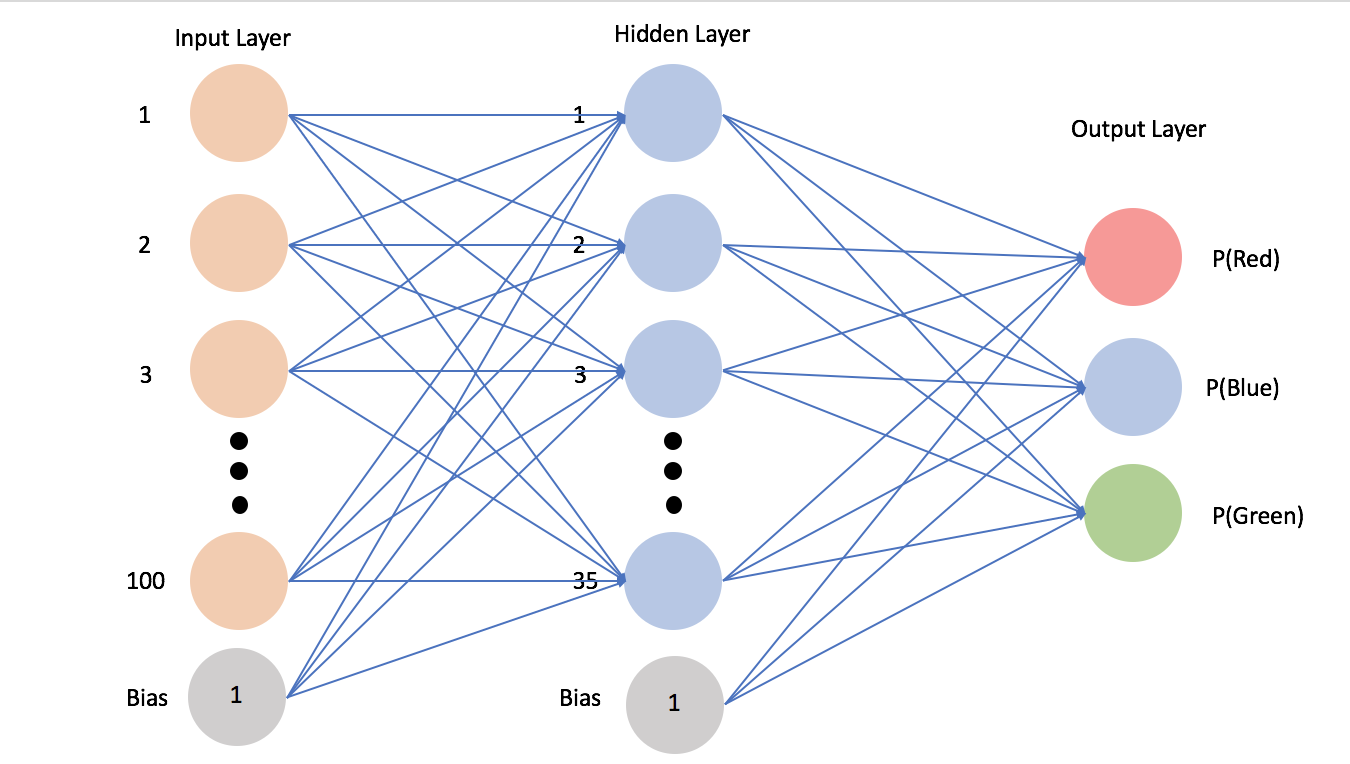
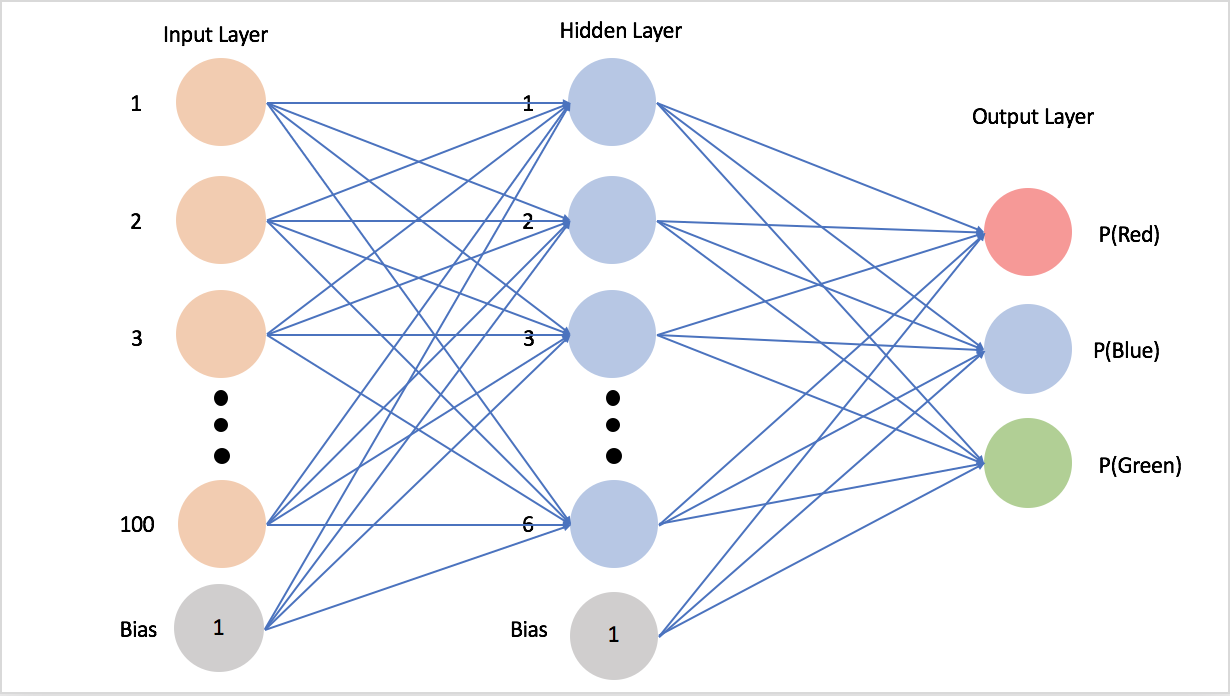
FINAL

diff --git a/Python/demo.py b/Python/demo.py
@@ -73,7 +73,7 @@ while True:
             for value in row:
                 inp.append(value/179) #0-179 is the hue range
         # Feed Forward
-        result = forward(inp, weights, 35, 100, 3)
+        result = forward(inp, weights, 6, 100, 3)
         condfidence = [round(float(x),4)*100 for x in result[3]]
         output = {'Green': condfidence[0], 'Red': condfidence[1], 'Blue': condfidence[2]}
         print(output)
